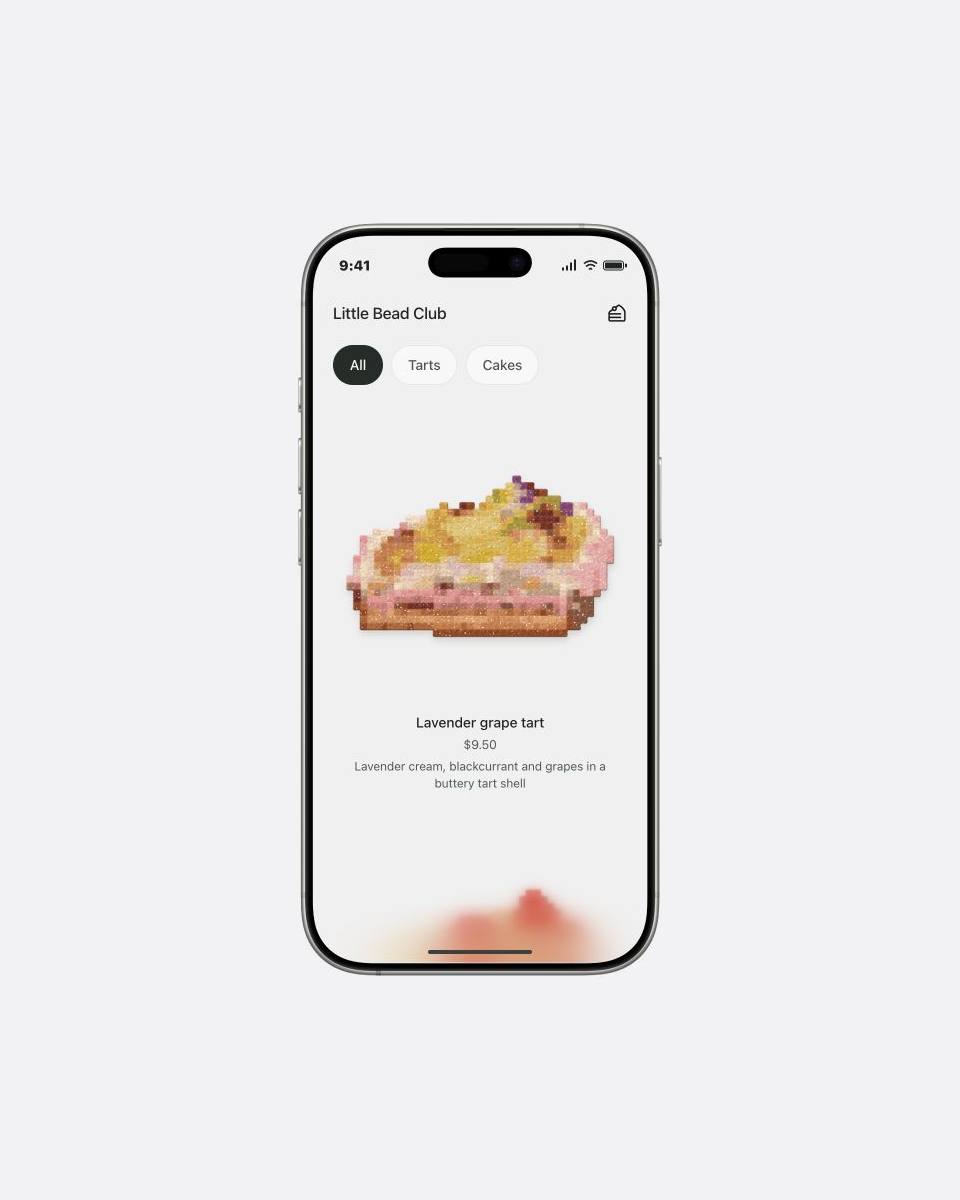
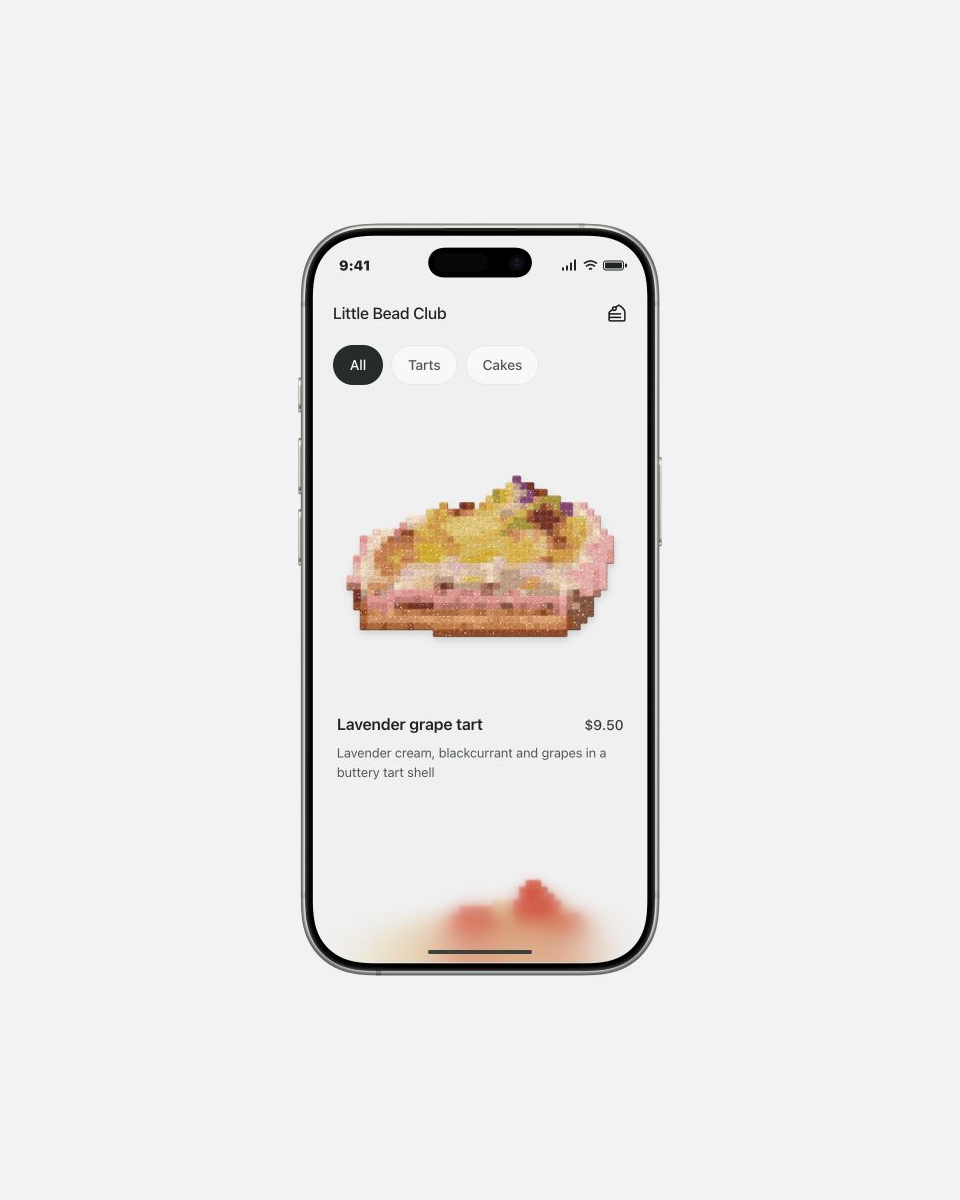
Clarify cake names prices and descriptions [skip deploy]

Changed region(s): [[0.3438, 0.5858, 0.625, 0.6783], [0.4688, 0.7092, 0.625, 0.7708], [0.625, 0.5858, 0.6562, 0.6167]]

diff --git a/components/play/bead-club/bead-club.tsx b/components/play/bead-club/bead-club.tsx
@@ -1140,7 +1140,7 @@ function CakeDetail({ art, onBack }: { art: Artwork; onBack: () => void }) {
   return <section className="bc-detail" onKeyDown={event => { if (event.key === "Escape") onBack(); }} aria-label={`${art.name} details`}>
     <div className="bc-detail-nav"><button ref={backRef} className="bc-icon" onClick={onBack} aria-label="Back to collection"><ArrowLeft size={21} /></button></div>
     <div className="bc-board"><BeadArt art={art} /></div>
-    <div className="bc-detail-caption"><h2>{art.name}</h2><p className="bc-menu-price">{art.price}</p><p className="bc-detail-description">{art.description}</p></div>
+    <div className="bc-detail-caption"><div className="bc-menu-heading"><h2>{art.name}</h2><p className="bc-menu-price">{art.price}</p></div><p className="bc-detail-description">{art.description}</p></div>
   </section>;
 }
 
@@ -1155,7 +1155,7 @@ function MenuGrid({ items, onOpen }: { items: Artwork[]; onOpen: (art: Artwork, 
   return <div className="bc-food-grid">
     {items.map(art => <article className="bc-menu-card" key={art.id}>
       <button className="bc-menu-open" aria-label={`Open ${art.name}`} onClick={event => onOpen(art, event.currentTarget)}><BeadArt art={art} /></button>
-      <div className="bc-menu-caption"><h3>{art.name}</h3><p className="bc-menu-price">{art.price}</p><p className="bc-menu-description">{art.description}</p></div>
+      <div className="bc-menu-caption"><div className="bc-menu-heading"><h3>{art.name}</h3><p className="bc-menu-price">{art.price}</p></div><p className="bc-menu-description">{art.description}</p></div>
     </article>)}
   </div>;
 }
@@ -1218,11 +1218,11 @@ const styles = `
 .bc-header::before,.bc-detail-nav::before{content:'';position:absolute;left:0;right:0;top:-55px;bottom:-28px;z-index:-1;background:transparent;backdrop-filter:blur(14px);-webkit-backdrop-filter:blur(14px);mask-image:linear-gradient(#000 0%,#000 68%,transparent 100%);-webkit-mask-image:linear-gradient(#000 0%,#000 68%,transparent 100%);pointer-events:none}
 .bc-screen[data-detail="true"] .bc-collection{visibility:hidden}.bc-collection{position:relative;height:calc(100% - 55px);display:flex;flex-direction:column}.bc-header{position:absolute;top:0;left:0;right:0;z-index:8;flex-shrink:0;min-height:48px;color:#242a26;padding:6px 20px 10px;display:flex;align-items:center;justify-content:space-between;gap:8px;font-size:16px;font-weight:500;letter-spacing:-.25px}.bc-food-icon{flex-shrink:0;color:#171b18;filter:none;background:none;box-shadow:none}
 .bc-menu-tabs{position:absolute;top:48px;left:0;right:0;display:flex;align-items:center;gap:8px;flex-shrink:0;overflow-x:auto;scrollbar-width:none;padding:4px 20px 8px;min-height:56px;z-index:8}.bc-menu-tabs button{flex-shrink:0;min-height:40px;border:1px solid #242a2614;border-radius:999px;background:#ffffff80;padding:0 16px;font-size:14px;font-weight:500;white-space:nowrap;color:#58635b}.bc-menu-tabs button[aria-pressed="true"]{color:#fff;background:#28332c;border-color:#28332c}
-.bc-list{position:absolute;inset:0;min-height:0;overflow-y:auto;overscroll-behavior:contain;padding:116px 18px 132px;scrollbar-width:none}.bc-list::-webkit-scrollbar{display:none}.bc-menu-section{padding:0}.bc-food-grid{display:grid;grid-template-columns:minmax(0,1fr);row-gap:36px;align-items:start}.bc-menu-card{min-width:0}.bc-menu-open{display:block;width:100%;height:auto;aspect-ratio:1;border:0;background:transparent;padding:0}.bc-menu-caption{padding:8px 8px 0;text-align:center}.bc-menu-caption h3{font-size:14px;line-height:1.3;font-weight:500;letter-spacing:-.1px;margin:0;overflow-wrap:anywhere}.bc-menu-price{font-size:12.5px;line-height:1.4;font-weight:400;margin:4px 0;color:#58635b}.bc-menu-description{font-size:12px;line-height:1.4;color:#58635b;margin:5px 0 0}.bc-stage svg{flex-shrink:0}
+.bc-list{position:absolute;inset:0;min-height:0;overflow-y:auto;overscroll-behavior:contain;padding:116px 18px 132px;scrollbar-width:none}.bc-list::-webkit-scrollbar{display:none}.bc-menu-section{padding:0}.bc-food-grid{display:grid;grid-template-columns:minmax(0,1fr);row-gap:36px;align-items:start}.bc-menu-card{min-width:0}.bc-menu-open{display:block;width:100%;height:auto;aspect-ratio:1;border:0;background:transparent;padding:0}.bc-menu-caption{padding:8px 6px 0;text-align:left}.bc-menu-heading{display:flex;align-items:baseline;justify-content:space-between;gap:16px}.bc-menu-heading>h2,.bc-menu-heading>h3{min-width:0}.bc-menu-caption h3{font-size:16px;line-height:1.35;font-weight:600;letter-spacing:-.2px;margin:0;overflow-wrap:anywhere}.bc-menu-price{flex-shrink:0;font-size:14px;line-height:1.4;font-weight:500;margin:0;color:#3b453e;white-space:nowrap;font-variant-numeric:tabular-nums}.bc-menu-description{font-size:13px;line-height:1.5;color:#58635b;margin:8px 0 0}.bc-stage svg{flex-shrink:0}
 .bc-art{width:100%;height:100%;display:block;overflow:visible;filter:drop-shadow(.5px 3px 3.5px #493d3029)}.bc-art-3d{position:relative;filter:none}.bc-art-3d>canvas{position:absolute;inset:0;pointer-events:none}
 .bc-home{position:absolute;width:104px;height:4px;border-radius:4px;background:#424b45;bottom:9px;left:50%;transform:translateX(-50%);z-index:10}
 .bc-top-glass{position:absolute;top:0;left:0;right:0;height:176px;pointer-events:none;z-index:6;background:transparent}.bc-top-glass i{position:absolute;inset:0;backdrop-filter:blur(2px);-webkit-backdrop-filter:blur(2px);mask-image:linear-gradient(#000 60%,transparent);-webkit-mask-image:linear-gradient(#000 60%,transparent)}.bc-top-glass i:nth-child(2){height:150px;backdrop-filter:blur(6px);-webkit-backdrop-filter:blur(6px)}.bc-top-glass i:nth-child(3){height:128px;backdrop-filter:blur(12px);-webkit-backdrop-filter:blur(12px)}.bc-top-glass i:nth-child(4){height:106px;backdrop-filter:blur(20px);-webkit-backdrop-filter:blur(20px)}
 .bc-glass-edge{position:absolute;bottom:0;left:0;right:0;height:124px;pointer-events:none;z-index:9;background:transparent}.bc-glass-edge i{position:absolute;inset:0;backdrop-filter:blur(2px);-webkit-backdrop-filter:blur(2px);mask-image:linear-gradient(transparent,#000 75%);-webkit-mask-image:linear-gradient(transparent,#000 75%)}.bc-glass-edge i:nth-child(2){top:20px;backdrop-filter:blur(6px);-webkit-backdrop-filter:blur(6px)}.bc-glass-edge i:nth-child(3){top:42px;backdrop-filter:blur(12px);-webkit-backdrop-filter:blur(12px)}.bc-glass-edge i:nth-child(4){top:64px;backdrop-filter:blur(20px);-webkit-backdrop-filter:blur(20px)}
 .bc-glass-reflection{position:absolute;inset:0;border-radius:inherit;z-index:7;pointer-events:none;box-shadow:inset 0 0 2px #fff4}
-.bc-detail{position:absolute;inset:55px 0 0;background:${APP_BACKGROUND};z-index:8;overflow-y:auto;scrollbar-width:none;padding-bottom:58px}.bc-detail-nav{position:sticky;top:0;z-index:8;min-height:56px;display:flex;align-items:center;padding:0 12px;color:#242a26}.bc-icon{width:44px;height:44px;min-width:44px;min-height:44px;border:1px solid #242a2624;background:#ffffff50;backdrop-filter:blur(10px) saturate(1.25);-webkit-backdrop-filter:blur(10px) saturate(1.25);box-shadow:none;display:grid;place-items:center;border-radius:50%}.bc-icon svg{filter:none}.bc-board{display:block;width:calc(100% - 20px);border:0;background:transparent;height:clamp(180px,85cqw,330px);margin:0 10px;position:relative;padding:8px 0;display:flex;justify-content:center;align-items:center}.bc-board .bc-art{width:100%;height:100%}.bc-detail-caption{padding:16px 22px 0}.bc-detail-caption h2{min-width:0;font-size:17px;line-height:1.35;font-weight:500;letter-spacing:-.4px;margin:0;overflow-wrap:anywhere}.bc-detail-description{font-size:14px;line-height:1.5;color:#58635b;margin:8px 0 0}.bc-detail-caption .bc-menu-price{font-size:14px;margin-top:6px}
+.bc-detail{position:absolute;inset:55px 0 0;background:${APP_BACKGROUND};z-index:8;overflow-y:auto;scrollbar-width:none;padding-bottom:58px}.bc-detail-nav{position:sticky;top:0;z-index:8;min-height:56px;display:flex;align-items:center;padding:0 12px;color:#242a26}.bc-icon{width:44px;height:44px;min-width:44px;min-height:44px;border:1px solid #242a2624;background:#ffffff50;backdrop-filter:blur(10px) saturate(1.25);-webkit-backdrop-filter:blur(10px) saturate(1.25);box-shadow:none;display:grid;place-items:center;border-radius:50%}.bc-icon svg{filter:none}.bc-board{display:block;width:calc(100% - 20px);border:0;background:transparent;height:clamp(180px,85cqw,330px);margin:0 10px;position:relative;padding:8px 0;display:flex;justify-content:center;align-items:center}.bc-board .bc-art{width:100%;height:100%}.bc-detail-caption{padding:16px 22px 0}.bc-detail-caption h2{min-width:0;font-size:17px;line-height:1.35;font-weight:500;letter-spacing:-.4px;margin:0;overflow-wrap:anywhere}.bc-detail-description{font-size:14px;line-height:1.5;color:#58635b;margin:8px 0 0}.bc-detail-caption .bc-menu-price{font-size:14px;margin:0}
 `;
